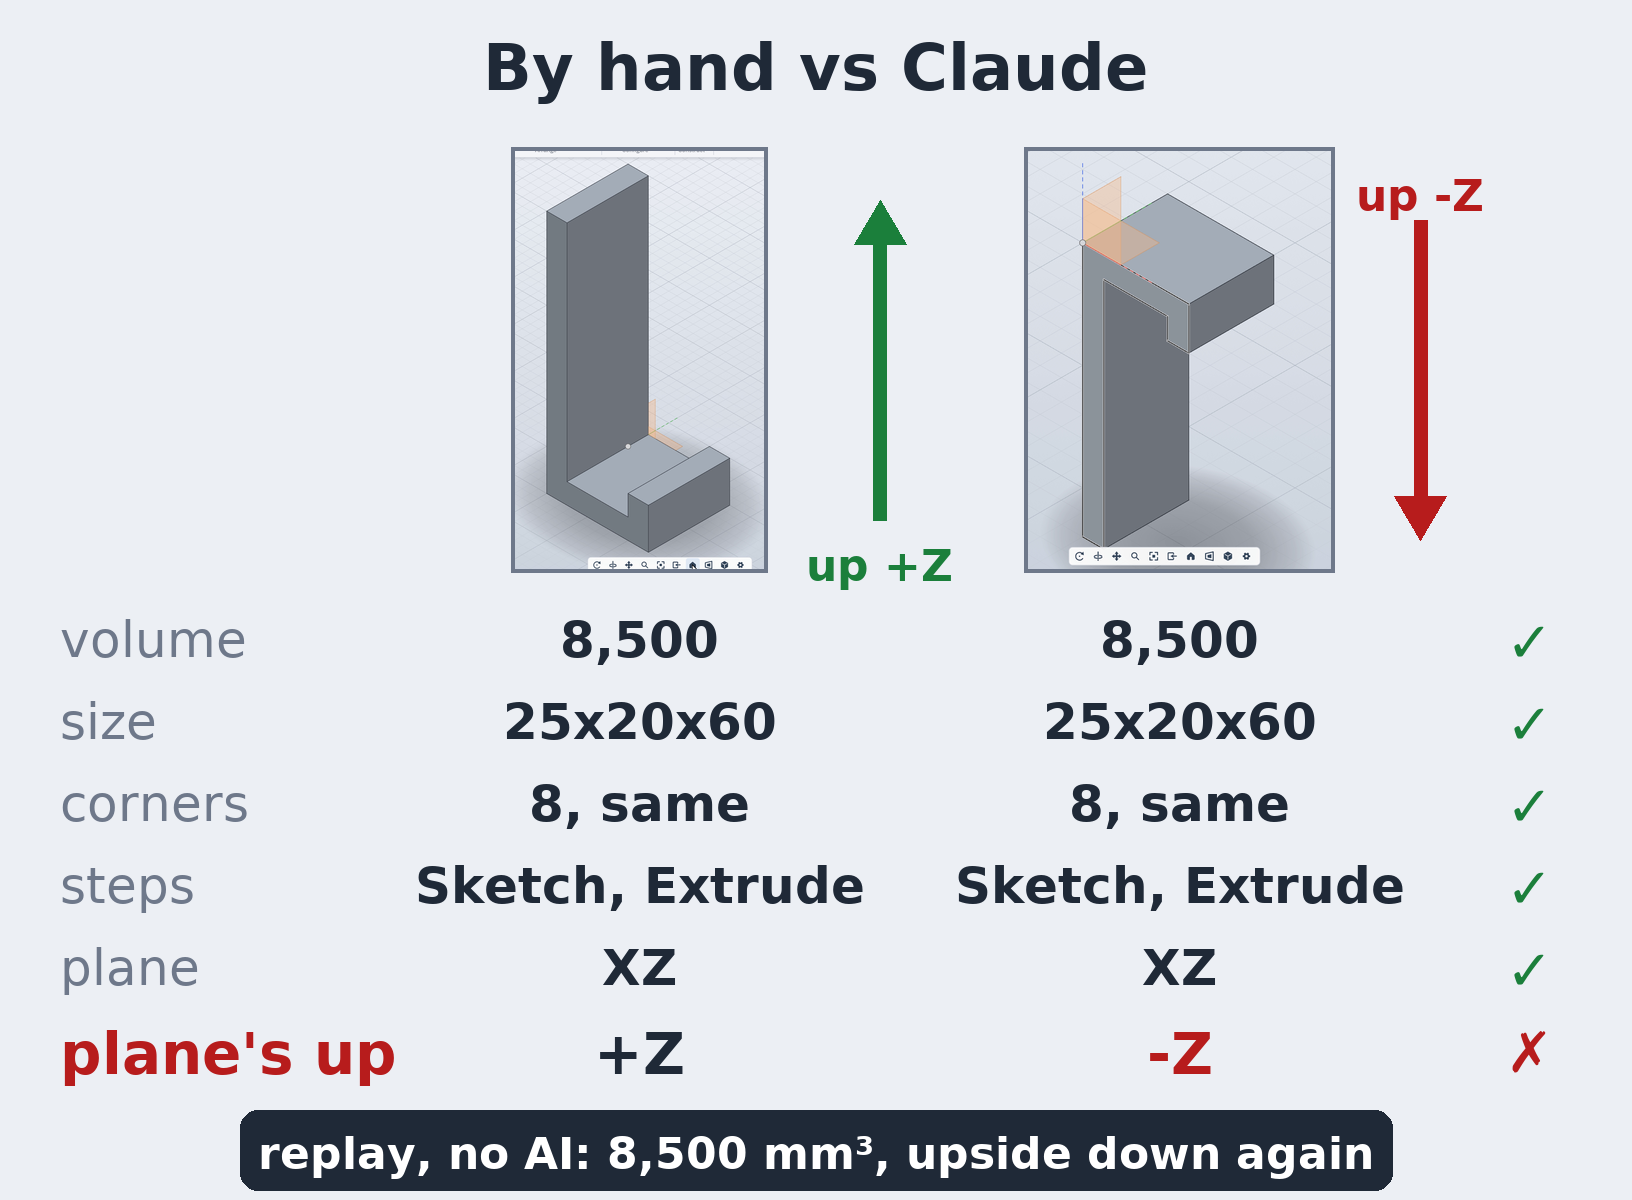
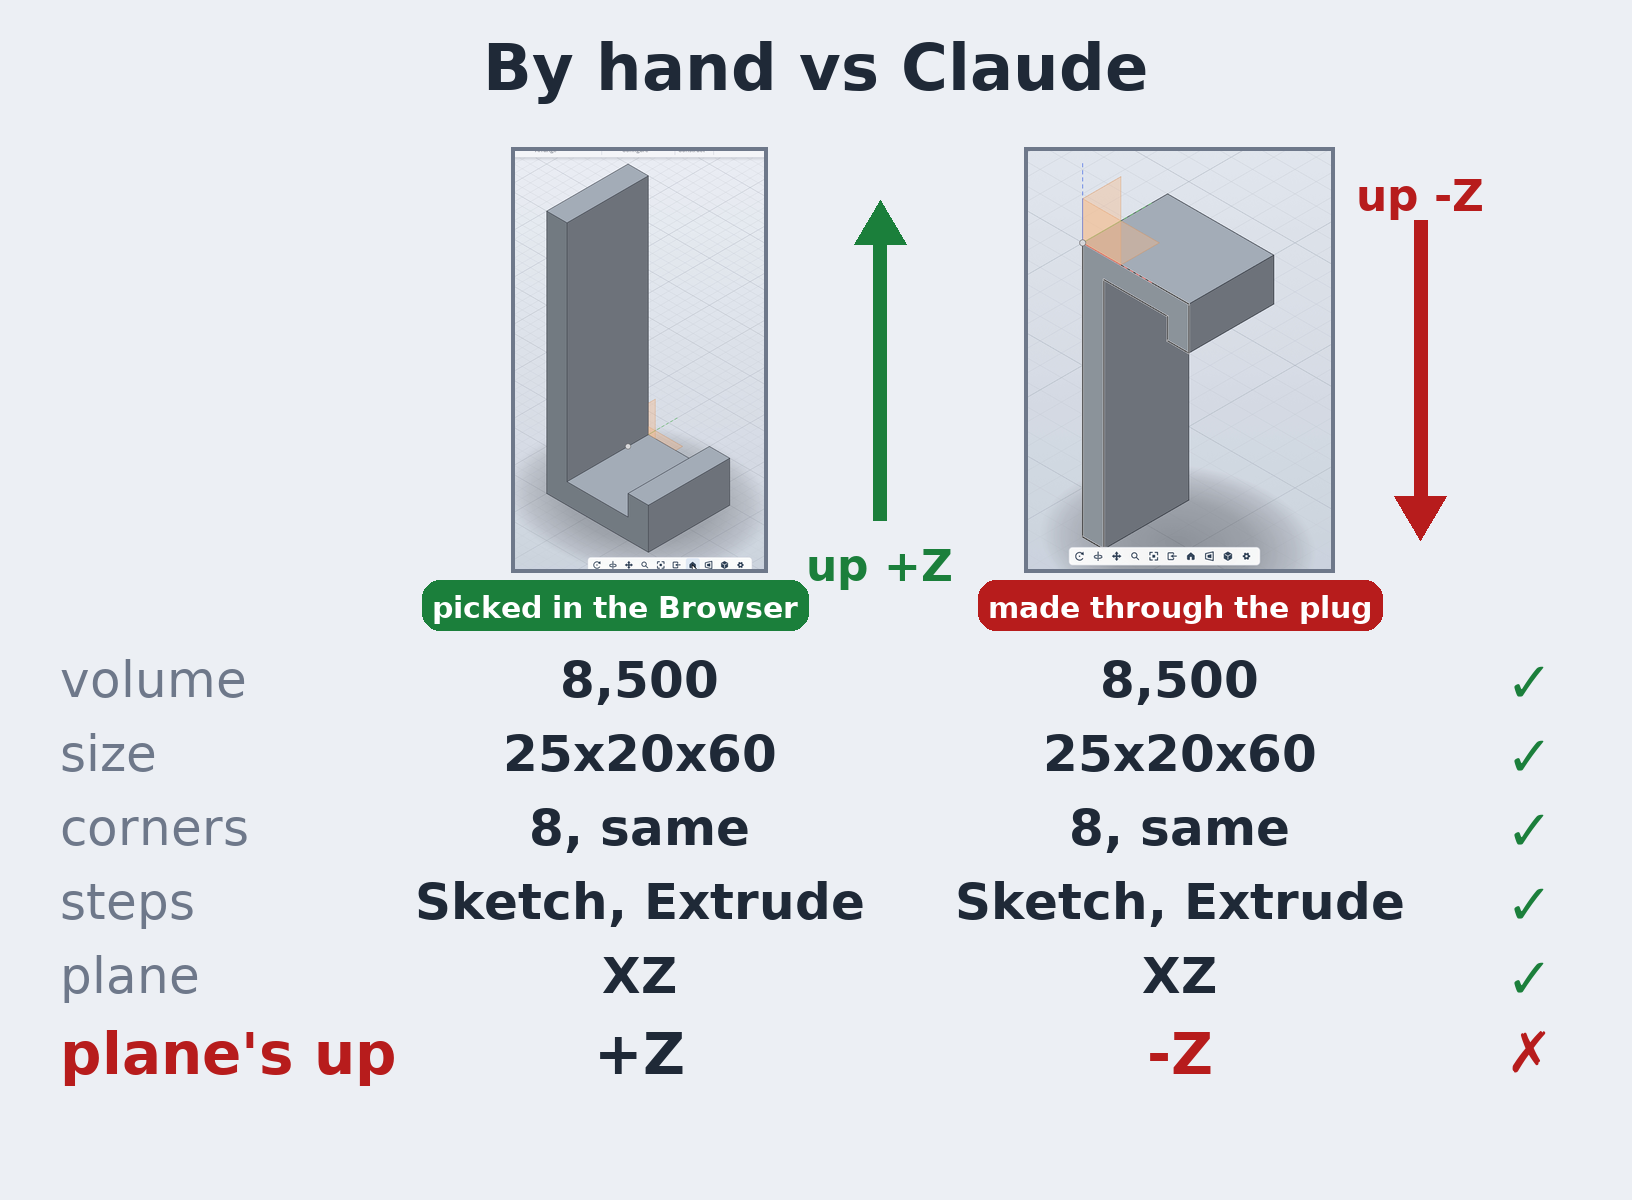
Lesson 2 cards: compare card names both planes, Short why card says how each plane was made
Watch-through cuts 3-5: the compare card labels 'picked in the Browser' / 'made through the plug'
and drops the replay line (the replay window says it when the voice does); the Short's why card
reads 'picked on screen' vs 'typed XZ'.

diff --git a/video/draw2.py b/video/draw2.py
@@ -195,11 +195,13 @@ def card_paperup():
         body = (mx, y, mx + 170, y + 200)
         d.rectangle(body, fill=(200, 210, 225), outline=INK, width=5)
         d.arc((mx + 140, y + 40, mx + 240, y + 160), -90, 90, fill=INK, width=12)
-        if up:
-            d.rectangle((mx + 10, y + 40, mx + 160, y + 190), fill=(110, 150, 220))
-        else:
-            d.line((mx, y + 200, mx + 170, y + 200), fill=INK, width=14)
-    text(d, (mx + 100, 870), 'same volume', 48, INK, anchor='ma')
+        # the open rim: on top when standing, at the bottom when turned upside down
+        ry = y if up else y + 200
+        d.line((mx - 6, ry, mx + 176, ry), fill=(236, 239, 244), width=12)
+        d.ellipse((mx, ry - 14, mx + 170, ry + 14), outline=INK, width=5)
+        text(d, (mx + 85, y + 100), 'up' if up else 'over', 30, GREY, anchor='mm')
+    text(d, (mx + 60, 870), 'same size,', 40, INK, anchor='ma')
+    text(d, (mx + 60, 920), 'same weight', 40, INK, anchor='ma')
     chip(d, (W / 2, 1000), 'volume can\'t tell which way is up', 54, anchor='m', bg=RED)
     save(im, 'card-paperup.png')
 
@@ -218,6 +220,8 @@ def card_compare():
         tip = [(x - 26, y1 + (24 if up else -24)), (x + 26, y1 + (24 if up else -24)), (x, y1 - (20 if up else -20))]
         d.polygon(tip, fill=col)
         text(d, (x, 540 if up else 170), lab, 44, col, anchor='ma')
+    chip(d, (615, 580), 'picked in the Browser', 30, anchor='m', bg=GREEN, pad=10)
+    chip(d, (1180, 580), 'made through the plug', 30, anchor='m', bg=RED, pad=10)
     hs, cs = CMP['hand_summary'], CMP['claude_summary']
     rows = [('volume', f"{hs['volume_mm3']:,.0f}", f"{cs['volume_mm3']:,.0f}", True),
             ('size', 'x'.join(f'{v:g}' for v in hs['bbox_mm']), 'x'.join(f'{v:g}' for v in cs['bbox_mm']), True),
@@ -225,15 +229,15 @@ def card_compare():
             ('steps', 'Sketch, Extrude', 'Sketch, Extrude', CMP['same_steps']),
             ('plane', 'XZ', 'XZ', CMP['same_plane']),
             ("plane's up", '+Z', '-Z', CMP['same_up'])]
-    y = 610
+    y = 650
     for name, a, b, ok in rows:
         big = name == "plane's up"
         text(d, (60, y), name, 58 if big else 50, RED if big else GREY, B if big else R)
         text(d, (640, y), a, 58 if big else 50, INK, anchor='ma')
         text(d, (1180, y), b, 58 if big else 50, INK if ok else RED, anchor='ma')
         text(d, (1530, y), '✓' if ok else '✗', 56, GREEN if ok else RED, anchor='ma')
-        y += 82
-    chip(d, (W / 2, 1110), f"replay, no AI: {REP['summary']['volume_mm3']:,.0f} mm³, upside down again", 44, anchor='m')
+        y += 74
+    # (cut 5: the replay line left the card; the replay's own window says it when the voice does)
     save(im, 'card-compare.png')
 
 
@@ -267,14 +271,15 @@ def hook(w, h, vertical=False):
         chip(d, (w // 4, 40), 'BY HAND', 72, anchor='m', bg=GREEN)
         chip(d, (3 * w // 4, 40), 'CLAUDE · 1 message', 72, anchor='m', bg=BLUE)
         chip(d, (w // 2, h - 150), 'SAME PART?', 84, anchor='m', bg=RED)
-    else:
-        a = fit(hand, w - 80, h // 2 - 220)
-        b = fit(cl, w - 80, h // 2 - 220)
-        paste_c(im, a, w // 2, h // 4 + 80)
-        paste_c(im, b, w // 2, 3 * h // 4 - 40)
-        chip(d, (w // 2, 40), 'BY HAND', 72, anchor='m', bg=GREEN)
-        chip(d, (w // 2, h // 2 + 10), 'CLAUDE · 1 message', 64, anchor='m', bg=BLUE)
-        chip(d, (w // 2, h - 240), 'SAME PART?', 84, anchor='m', bg=RED)
+    else:   # the Short's frame 0: the question in large words (it hides the captions for its first seconds)
+        text(d, (w // 2, 130), 'Same hook, two ways:', 76, anchor='ma')
+        text(d, (w // 2, 230), 'same part?', 96, RED, anchor='ma')
+        a = fit(hand, w // 2 - 50, 1050)
+        b = fit(still('claude-after.png', (1850, 620, 2600, 1700)), w // 2 - 50, 1050)
+        paste_c(im, a, w // 4 + 5, 950)
+        paste_c(im, b, 3 * w // 4 - 5, 950)
+        chip(d, (w // 4 + 5, 950 + a.height // 2 + 30), 'BY HAND', 58, anchor='m', bg=GREEN)
+        chip(d, (3 * w // 4 - 5, 950 + b.height // 2 + 30), 'CLAUDE', 58, anchor='m', bg=BLUE)
     return im
 
 
@@ -287,31 +292,41 @@ def short_assets():
         paste_c(im, fit(pic, 960, 960), 500, 500)
         save(im, name)
     im = Image.new('RGB', (1000, 1000), BG)
-    a = fit(still('hand-hook.png', (1150, 260, 2000, 1680)), 470, 900)
-    b = fit(cl, 470, 900)
+    a = fit(still('hand-hook.png', (1150, 260, 2000, 1680)), 470, 760)
+    b = fit(still('claude-after.png', (1850, 620, 2600, 1700)), 470, 760)
     paste_c(im, a, 255, 470)
     paste_c(im, b, 745, 470)
     d = ImageDraw.Draw(im)
+    # the floor (Z = 0): the hand hook's base, Claude's origin (measured on the drawn thumbnails)
+    fa = 470 - a.height // 2 + int((1627 - 260) * a.height / 1420)
+    fb = 470 - b.height // 2 + int((925 - 620) * b.height / 1080)
+    for y, x0, x1 in ((fa, 25, 485), (fb, 515, 975)):
+        for x in range(x0, x1, 28):
+            d.line((x, y, x + 16, y), fill=AMBER, width=7)
+    chip(d, (255, fa + 12), 'floor', 34, anchor='m', bg=AMBER)
+    chip(d, (745, fb + 12), 'floor', 34, anchor='m', bg=AMBER)
     chip(d, (255, 905), 'stands up', 52, anchor='m', bg=GREEN)
     chip(d, (745, 905), 'hangs down', 52, anchor='m', bg=RED)
     save(im, 'sc2s-both.png')
     im, d = canvas(1000, 1000)
-    text(d, (500, 40), 'Same J, top pointing down', 54, anchor='ma')
-    for i, (label, flip, col) in enumerate((('by hand: top up', False, GREEN), ("Claude's: top down", True, RED))):
+    text(d, (500, 40), 'Same outline, top pointing down', 50, anchor='ma')
+    for i, (label, flip, col) in enumerate((('by hand: picked on screen', False, GREEN), ('Claude: typed "XZ"', True, RED))):
         x0 = 60 + i * 480
         sheet(d, (x0, 160, x0 + 400, 720))
         if flip:
             d.line(j_poly(x0 + 140, 220, 7, flip=True) + [j_poly(x0 + 140, 220, 7, flip=True)[0]], fill=INK, width=8)
             d.line((x0 + 360, 660, x0 + 360, 520), fill=col, width=10)
             d.polygon([(x0 + 340, 660), (x0 + 380, 660), (x0 + 360, 700)], fill=col)
-            text(d, (x0 + 360, 480), 'TOP', 40, col, anchor='ma')
+            text(d, (x0 + 320, 470), 'up = -Z', 44, col, anchor='ma')
         else:
             d.line(j_poly(x0 + 140, 660, 7) + [j_poly(x0 + 140, 660, 7)[0]], fill=INK, width=8)
             d.line((x0 + 360, 340, x0 + 360, 200), fill=col, width=10)
             d.polygon([(x0 + 340, 200), (x0 + 380, 200), (x0 + 360, 160)], fill=col)
-            text(d, (x0 + 360, 350), 'TOP', 40, col, anchor='ma')
-        text(d, (x0 + 200, 750), label, 46, col, anchor='ma')
-    chip(d, (500, 860), 'the plane is the same; its up is not', 46, anchor='m', bg=RED)
+            text(d, (x0 + 320, 350), 'up = +Z', 44, col, anchor='ma')
+        who, how = label.split(': ')
+        text(d, (x0 + 200, 740), who + ':', 40, col, anchor='ma')
+        text(d, (x0 + 200, 790), how, 40, col, anchor='ma')
+    chip(d, (500, 860), 'same XZ, set up two ways', 50, anchor='m', bg=RED)
     save(im, 'sc2s-why.png')
 
 
